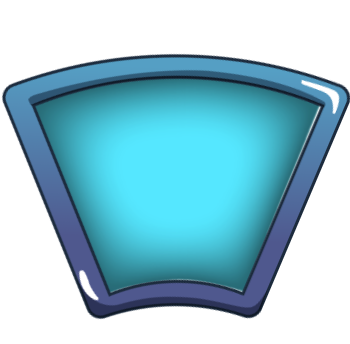
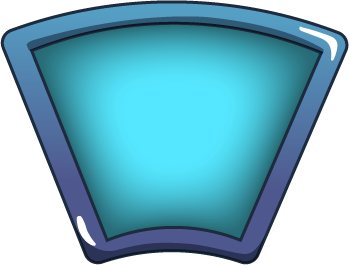
use updated arrow and selecting-frame

diff --git a/src/games/miniserverfe/components/MainMenu.tsx b/src/games/miniserverfe/components/MainMenu.tsx
@@ -11,26 +11,27 @@ import MainMenuSelectingFrame from "./MainMenuSelectingFrame";
 import MainMenuBot from "./MainMenuBot";
 
 const MainMenu = () => {
-  const [selectingFrame, setSelectingFrame] = useState(0);
+  // for demo
+  // const [selectingFrame, setSelectingFrame] = useState(0);
 
-  useEffect(() => {
-    const interval = setInterval(() => {
-      setSelectingFrame((prevSelectingFrame) => (prevSelectingFrame + 1) % 8);
-    }, 500); // Change interval to 1000ms (1 second)
+  // useEffect(() => {
+  //   const interval = setInterval(() => {
+  //     setSelectingFrame((prevSelectingFrame) => (prevSelectingFrame + 1) % 8);
+  //   }, 500);
 
-    return () => clearInterval(interval); // Cleanup the interval on component unmount
-  }, []);
+  //   return () => clearInterval(interval);
+  // }, []);
 
   return (
     <div className="main-background">
       <div className="main-content">
         <img src={circle} className="main-circle-background" />
-        <img src={display} className="main-display-image" />
-        <MainMenuProgressBar />
-        <MainMenuSelectingFrame order={selectingFrame} />
+        <MainMenuSelectingFrame order={0 /*selectingFrame*/} />
         {[...Array(8).keys()].map((order) => (
           <MainMenuBot order={order} />
         ))}
+        <img src={display} className="main-display-image" />
+        <MainMenuProgressBar />
         <img src={confirmButtonImage} className="main-button-image" />
       </div>
     </div>

diff --git a/src/games/miniserverfe/components/MainMenuSelectingFrame.tsx b/src/games/miniserverfe/components/MainMenuSelectingFrame.tsx
@@ -12,13 +12,13 @@ const MainMenuSelectingFrame = ({ order }: Props) => {
   const rotation = order * 45 + 22.5;
   const angle = 90 - rotation;
 
-  const selectingFrameRadius = 31.5;
+  const selectingFrameRadius = 30;
   const selectingFrameYPosition =
     50 - Math.sin((angle * Math.PI) / 180) * selectingFrameRadius;
   const selectingFrameXPosition =
     50 + Math.cos((angle * Math.PI) / 180) * selectingFrameRadius;
 
-  const arrowRadius = 15;
+  const arrowRadius = 13.5;
   const arrowYPosition = 50 - Math.sin((angle * Math.PI) / 180) * arrowRadius;
   const arrowXPposition = 50 + Math.cos((angle * Math.PI) / 180) * arrowRadius;
   return (

diff --git a/src/games/miniserverfe/components/MainMenuSelectingFrame.css b/src/games/miniserverfe/components/MainMenuSelectingFrame.css
@@ -2,7 +2,7 @@
     position: absolute;
     transform: translate(-50%, -50%);
     width: 36%;
-    height: 36%;
+    height: 27.3%;
 }
 
 .main-selecting-frame-image {
@@ -16,8 +16,8 @@
 .main-arrow-container {
     position: absolute;
     transform: translate(-50%, -50%);
-    width: 8%;
-    height: 6.4%;
+    width: 10.6%;
+    height: 5.5%;
 }
 
 .main-arrow-image {
